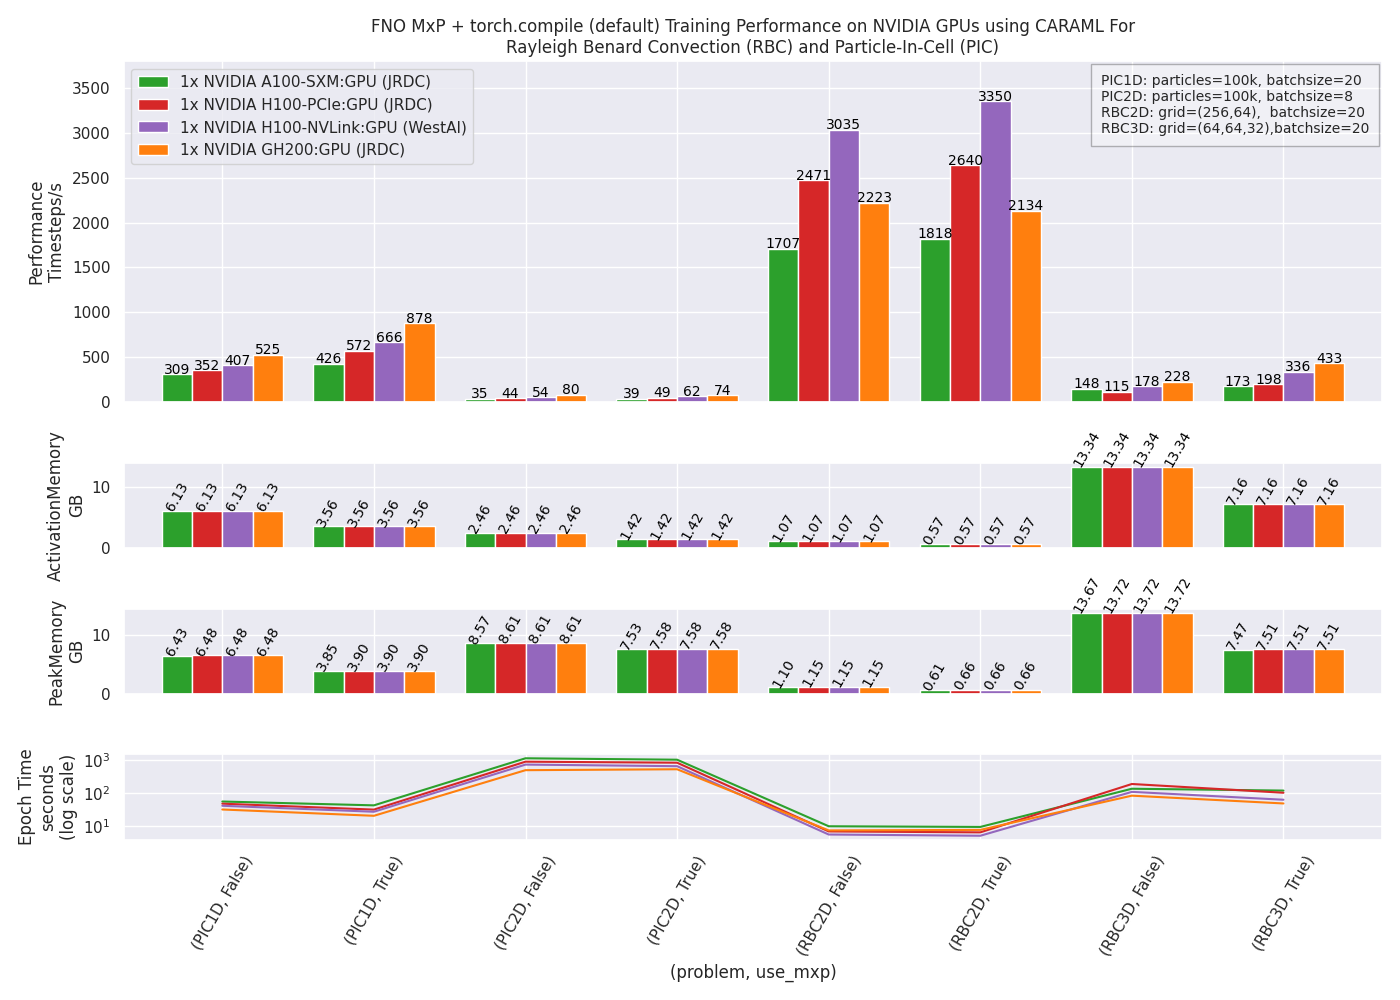
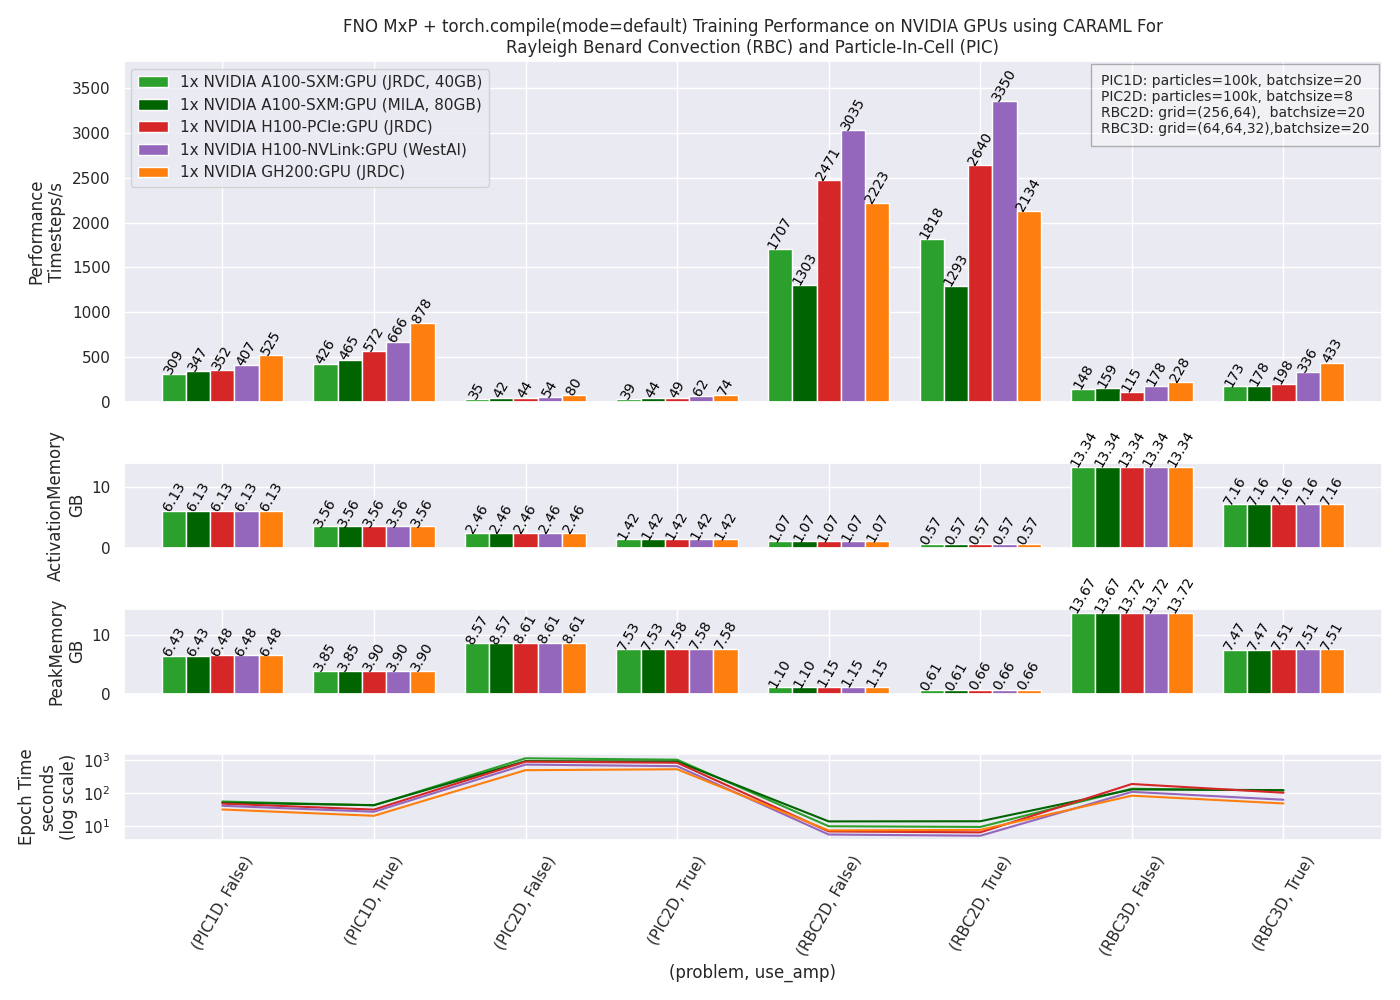
support for mila A100

diff --git a/README.md b/README.md
@@ -8,12 +8,13 @@ Paper: [Arxiv](https://arxiv.org/abs/2409.12994), [IEEE](https://ieeexplore.ieee
 
 # Tested Accelerators
 
-CARAML has been tested on the [JURECA-DC EVALUATION PLATFORM](https://apps.fz-juelich.de/jsc/hps/jureca/evaluation-platform-overview.html), [JURECA-DC](https://apps.fz-juelich.de/jsc/hps/jureca/configuration.html), [JEDI](https://apps.fz-juelich.de/jsc/hps/jedi/index.html#), [WEST-AI Nodes](https://westai.de/services/hardware/) and [NHR-FAU](https://doc.nhr.fau.de/clusters/testcluster/). These include the accelerators: 
+CARAML has been tested on the [JURECA-DC EVALUATION PLATFORM](https://apps.fz-juelich.de/jsc/hps/jureca/evaluation-platform-overview.html), [JURECA-DC](https://apps.fz-juelich.de/jsc/hps/jureca/configuration.html), [JEDI](https://apps.fz-juelich.de/jsc/hps/jedi/index.html#), [WEST-AI Nodes](https://westai.de/services/hardware/), [NHR-FAU](https://doc.nhr.fau.de/clusters/testcluster/) and [Mila](https://docs.mila.quebec/Information.html#node-profile-description). These include the accelerators: 
 
 ```markdown
 | System                                            | Configuration                                     | Tag       |
 |---------------------------------------------------|---------------------------------------------------|-----------|
 | NVIDIA Ampere node (SXM)                          | 4 × A100 (40GB HBM2e) GPUs                        | `A100`    |
+| NVIDIA Ampere node (SXM)                          | 4 × A100 (80GB HBM2e) GPUs                        | `MILA`    |
 | NVIDIA Hopper node (PCIe)                         | 4 × H100 (80GB HBM2e) GPUs                        | `H100`    |
 | NVIDIA Hopper node (NVLink)                       | 4 × H100 (94GB HBM2e) GPUs                        | `WAIH100` |
 | NVIDIA Grace-Hopper chip                          | 1 × GH200 (480GB LPDDR5X, 96GB HBM3) GPU          | `GH200`   |
@@ -23,6 +24,7 @@ CARAML has been tested on the [JURECA-DC EVALUATION PLATFORM](https://apps.fz-ju
 | AMD MI200 node                                    | 4 × MI250 (128GB HBM2e) GPUs                      | `MI250`   |
 | Graphcore IPU-POD4 M2000                          | 4 × GC200 (512GB DDR4-3200) IPUs                  | `GC200`   |
 ```
+> **Note**: `MILA` tag is supported only for FNO Benchmark.
 
 # Benchmark
 
